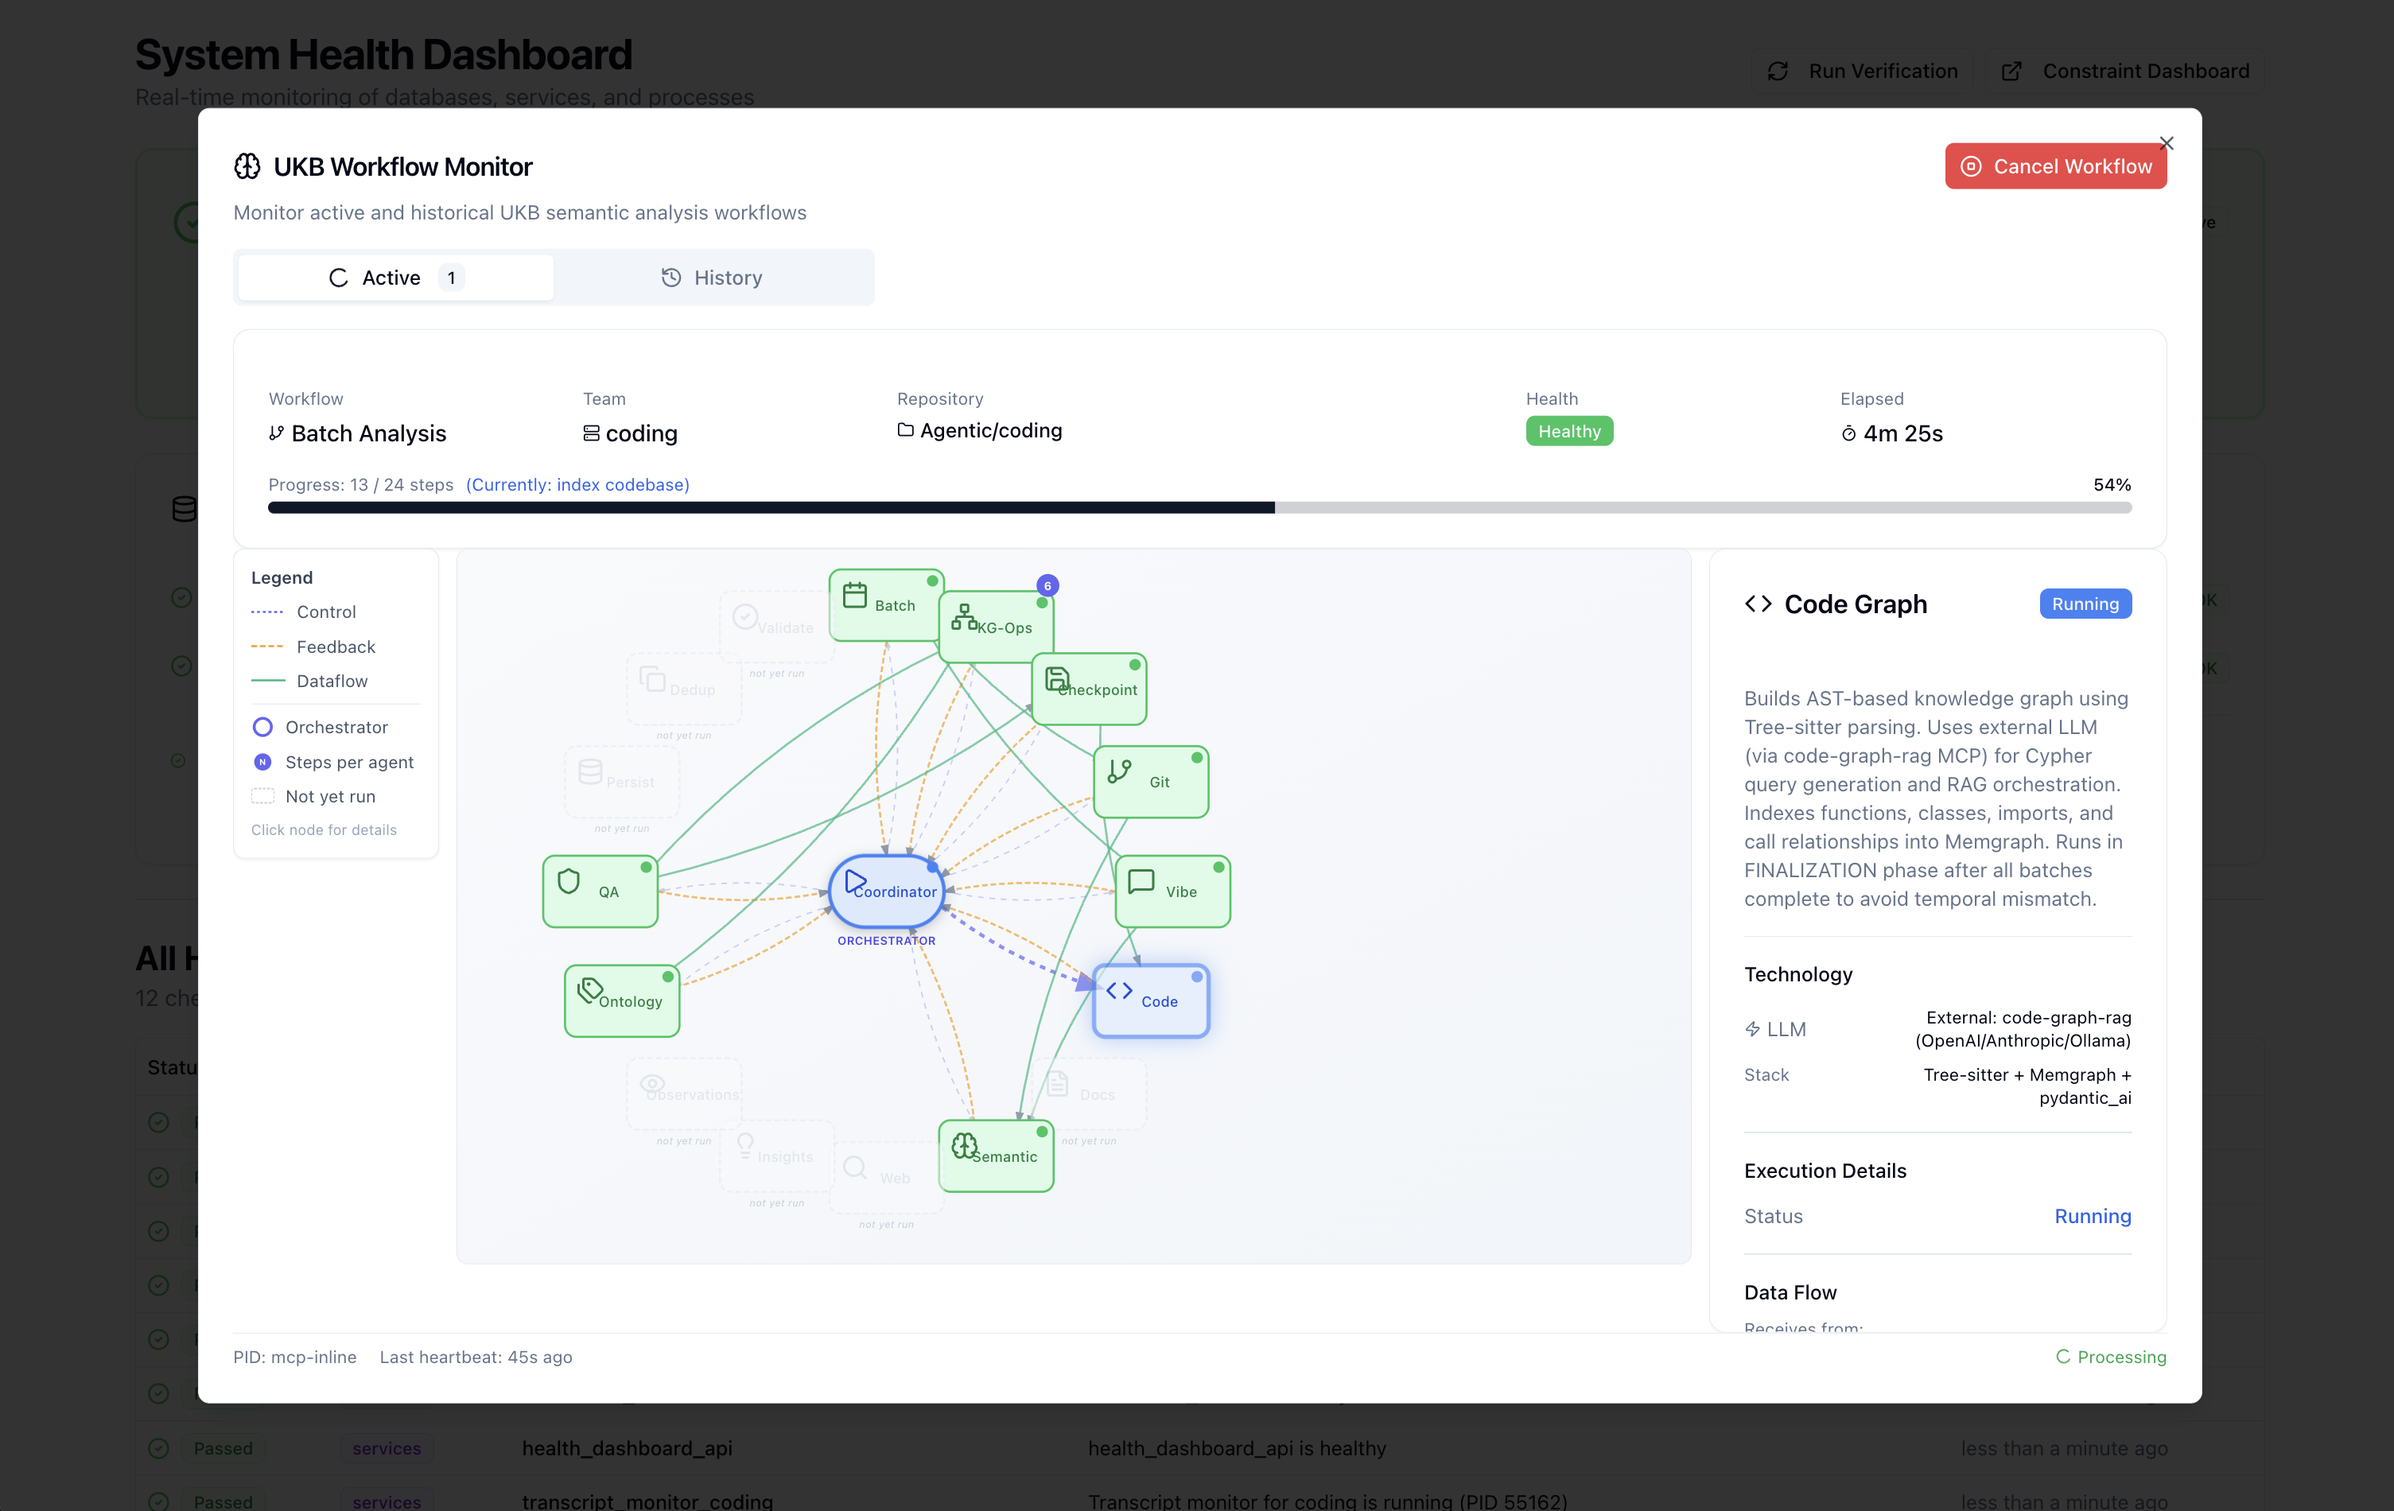
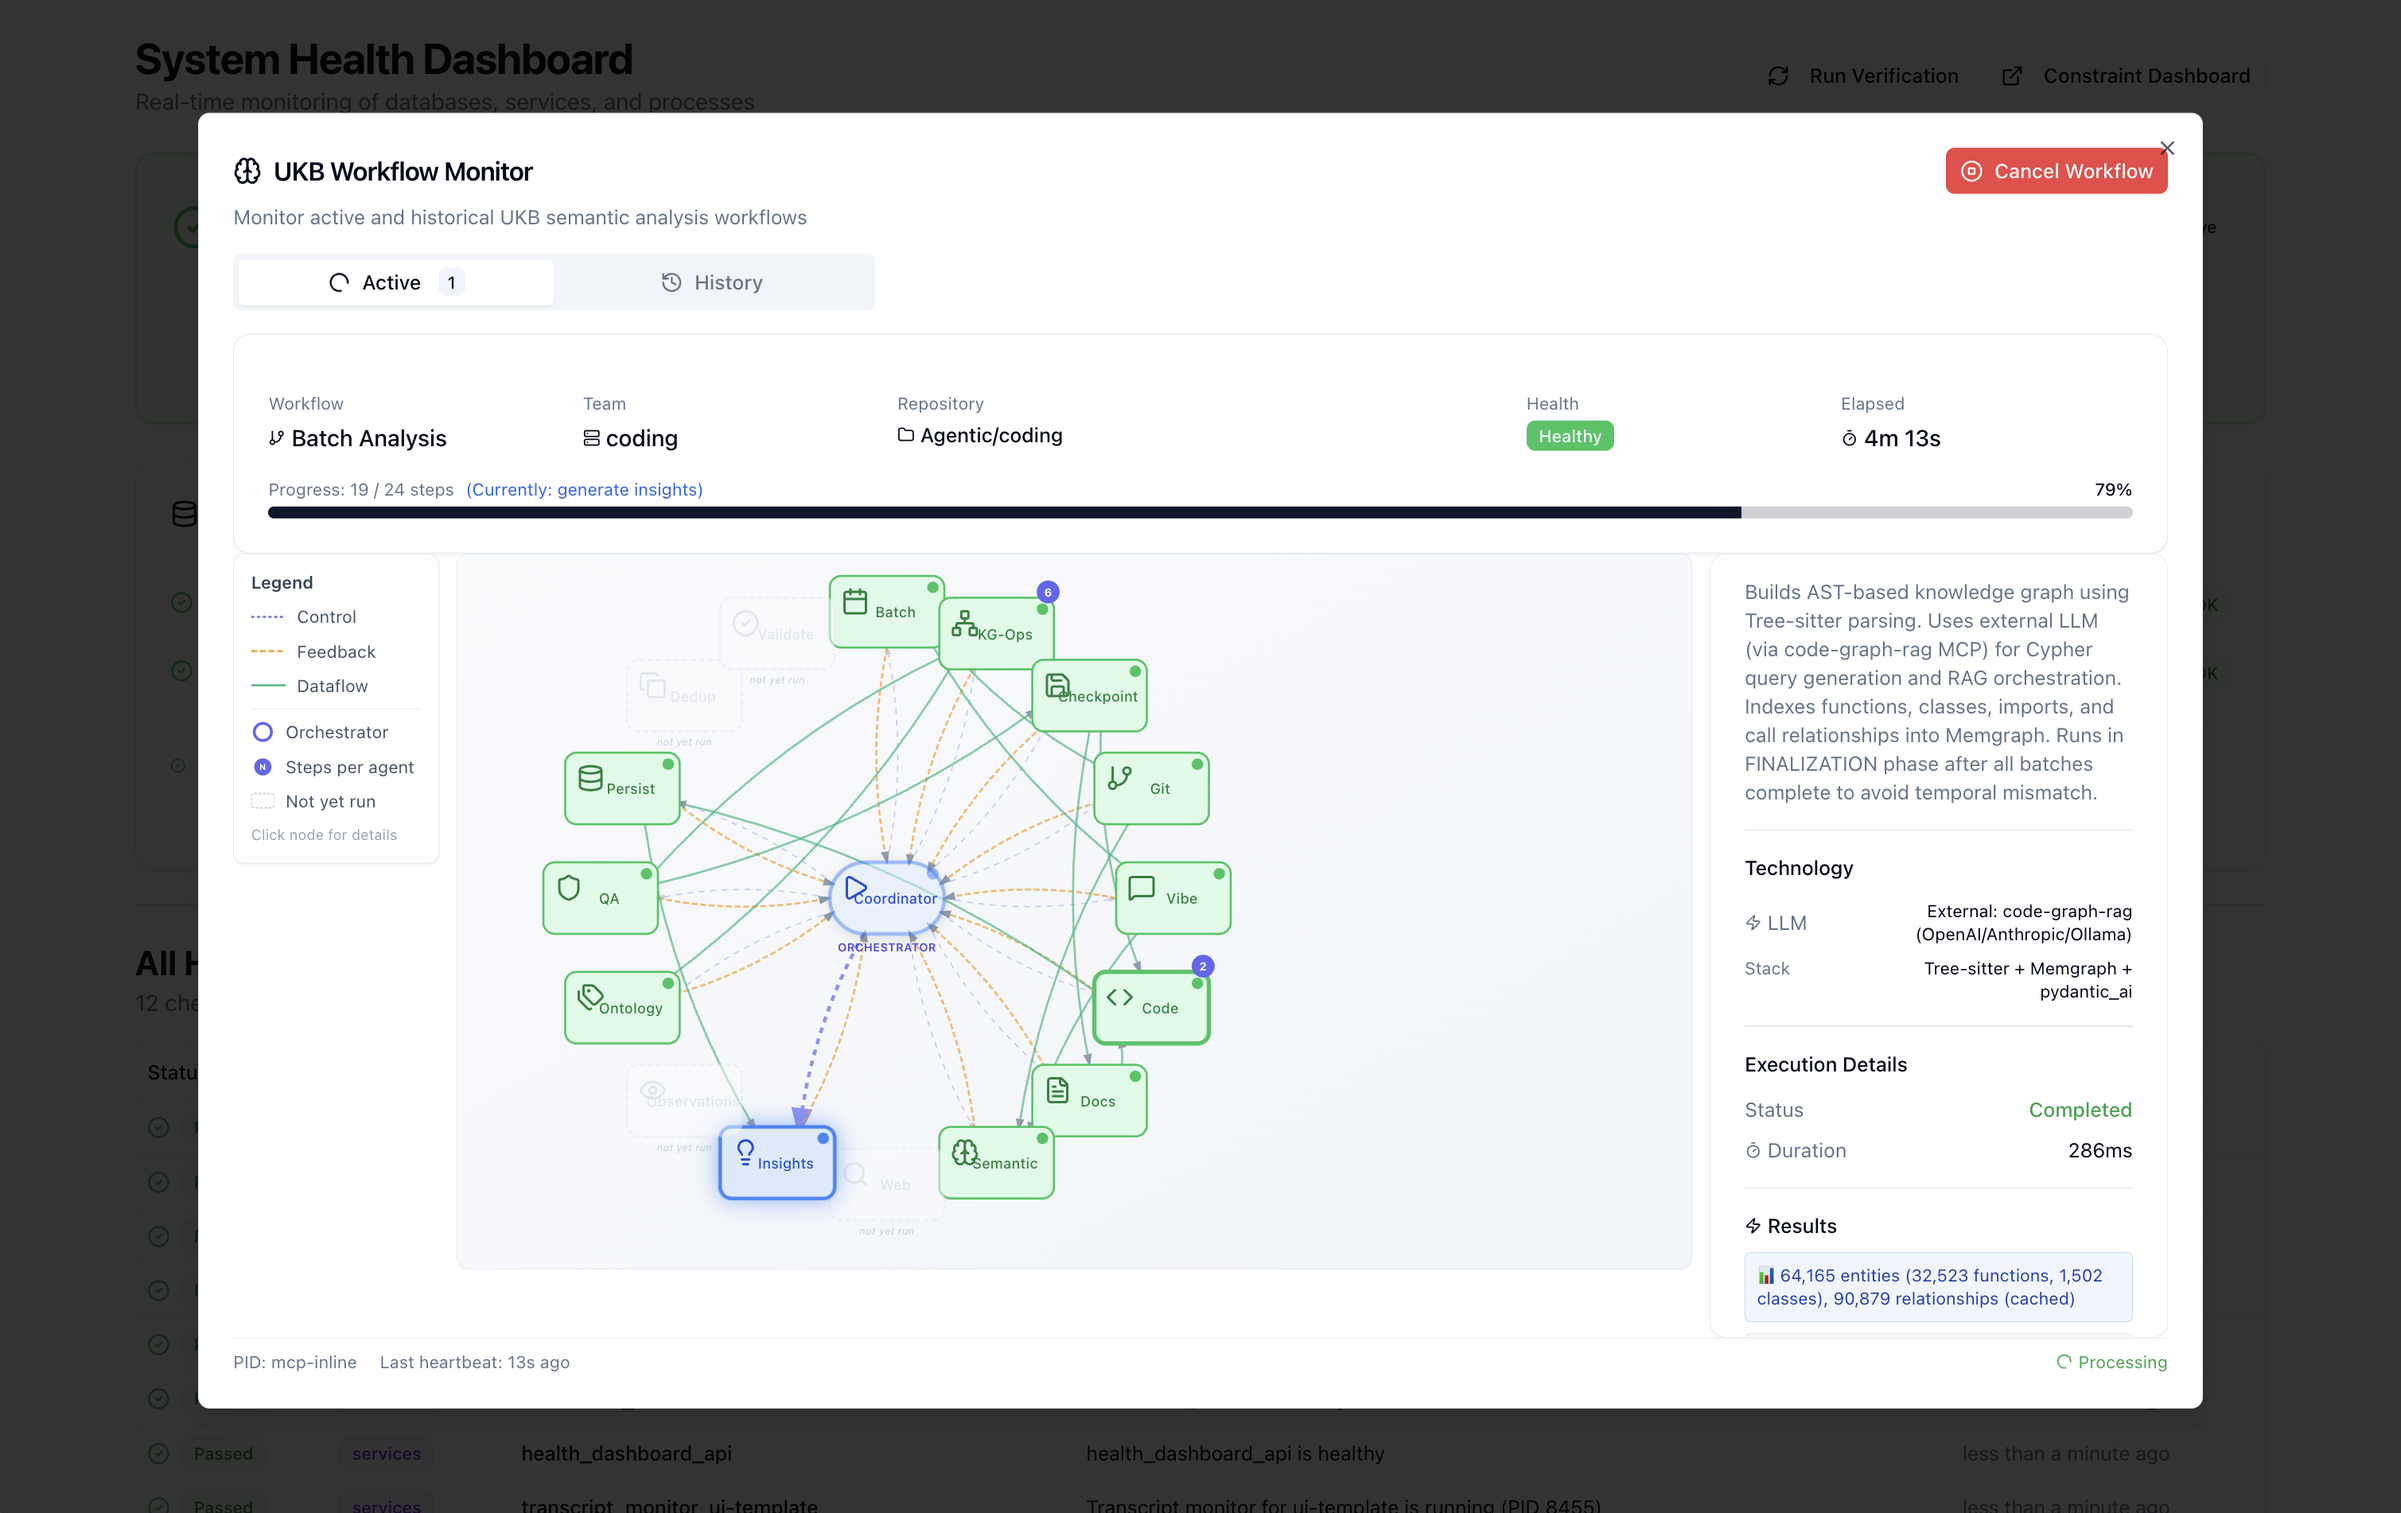
fix: workflow finalization step tracking and UKB run
- Update semantic-analysis submodule with finalization fixes
- Knowledge export updated from UKB run
- New session logs captured
- Dashboard screenshot for workflow validation issue

🤖 Generated with [Claude Code](https://claude.com/claude-code)

diff --git a/knowledge-management/insights/FunctionalProgrammingPattern.md b/knowledge-management/insights/FunctionalProgrammingPattern.md
@@ -1,6 +1,6 @@
 # Functional Programming Pattern
 **Type:** design
-**Generated:** 2026-01-03T21:02:09.642Z
+**Generated:** 2026-01-04T05:48:51.917Z
 
 ## Pattern Overview
 Predominantly functional architecture with 32523 standalone functions

diff --git a/knowledge-management/insights/Large-ScaleCodebasePattern.md b/knowledge-management/insights/Large-ScaleCodebasePattern.md
@@ -1,6 +1,6 @@
 # Large-Scale Codebase Pattern
 **Type:** architectural
-**Generated:** 2026-01-03T21:02:09.642Z
+**Generated:** 2026-01-04T05:48:51.917Z
 
 ## Pattern Overview
 Enterprise-scale codebase with 64165 code entities
